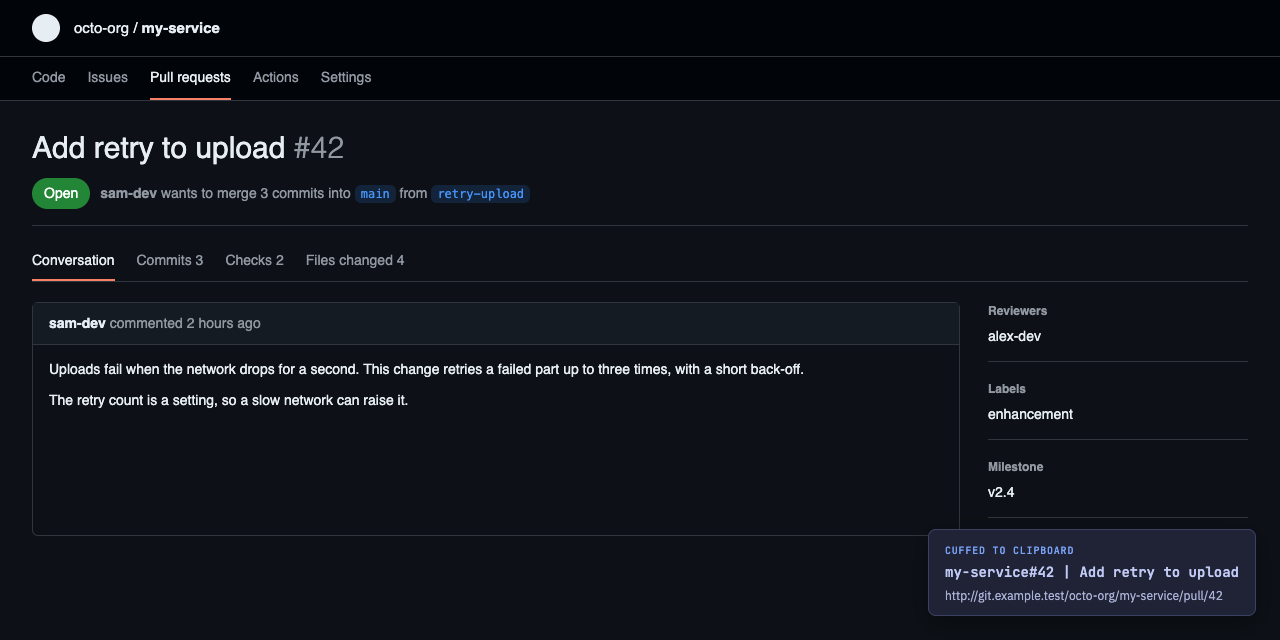
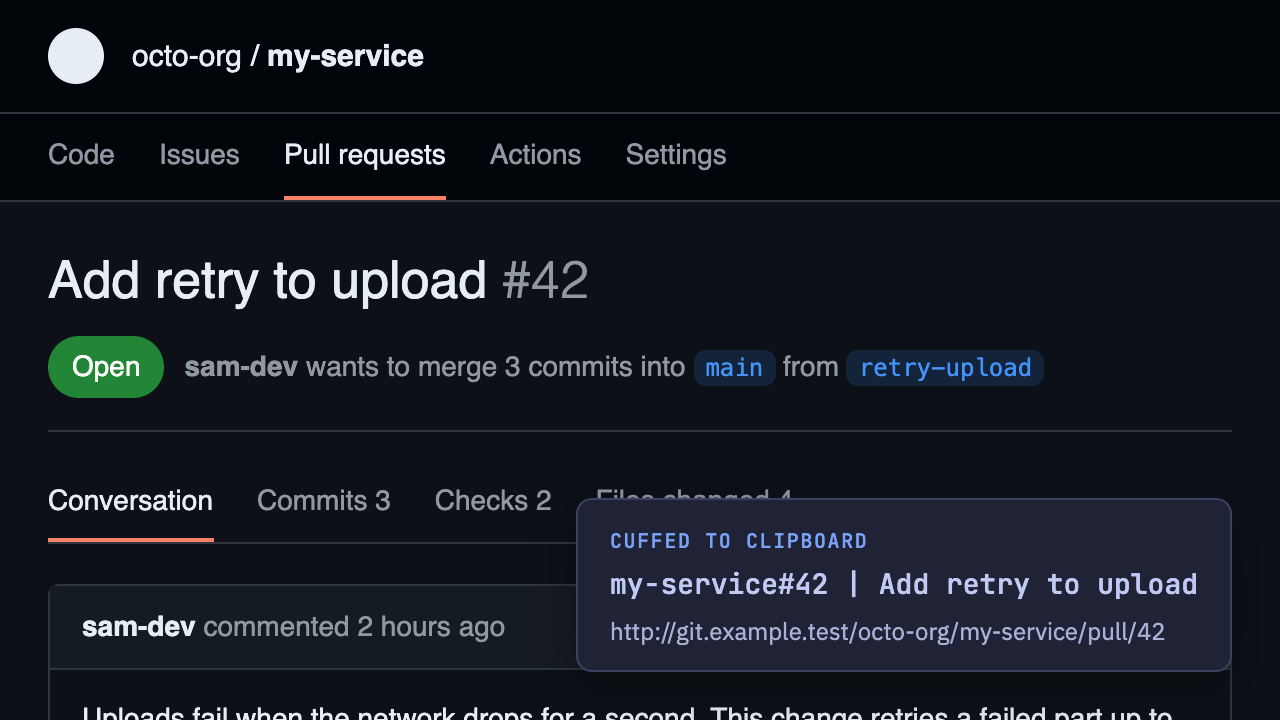
docs(images): re-shoot the card images tight, with an edge on the light one

diff --git a/docs/images/src/jira-page.html b/docs/images/src/jira-page.html
@@ -1,7 +1,8 @@
 <!doctype html>
 <!--
   Made-up issue tracker page for the light card screenshot.
-  Serve it at /browse/ABC-123/ and follow the verify skill (.agents/skills/verify/SKILL.md).
+  Serve it at /browse/ABC-123/. Steps: "Refresh the README and store images" in CONTRIBUTING.md.
+  A grey activity band and a thin frame give the light shot a visible edge on a white page.
 -->
 <html lang="en">
   <head>
@@ -76,6 +77,48 @@
       dd {
         margin: 0 0 12px;
       }
+      .activity {
+        position: fixed;
+        left: 0;
+        right: 0;
+        bottom: 0;
+        height: 104px;
+        padding: 16px 40px;
+        background: #f1f2f4;
+        border-top: 1px solid #dfe1e6;
+        color: #44546f;
+      }
+      .activity .label {
+        color: #172b4d;
+      }
+      .reply {
+        width: 46%;
+        padding: 8px 12px;
+        border: 1px solid #c1c7d0;
+        border-radius: 4px;
+        background: #fff;
+        color: #626f86;
+      }
+      body::after {
+        content: '';
+        position: fixed;
+        inset: 0;
+        border: 1px solid #b3b9c4;
+        pointer-events: none;
+      }
+      @media (max-width: 759px) {
+        header {
+          padding: 0 20px;
+        }
+        main {
+          padding: 18px 20px;
+          grid-template-columns: 1fr 150px;
+          gap: 20px;
+        }
+        .activity {
+          padding: 14px 20px;
+        }
+      }
     </style>
   </head>
   <body>
@@ -103,5 +146,9 @@
         </dl>
       </div>
     </main>
+    <section class="activity">
+      <p class="label">Activity</p>
+      <div class="reply">Add a comment…</div>
+    </section>
   </body>
 </html>

diff --git a/docs/images/src/pr-page.html b/docs/images/src/pr-page.html
@@ -1,7 +1,8 @@
 <!doctype html>
 <!--
   Made-up code host pull request page for the card screenshots.
-  Serve it at /octo-org/my-service/pull/42/ and follow the verify skill (.agents/skills/verify/SKILL.md).
+  Serve it at /octo-org/my-service/pull/42/. Steps: "Refresh the README and store images" in CONTRIBUTING.md.
+  Below 760 px wide, the page drops the sidebar so that a tight shot keeps the card large.
 -->
 <html lang="en">
   <head>
@@ -152,6 +153,25 @@
         margin: 0 0 18px;
         padding-bottom: 14px;
         border-bottom: 1px solid var(--line);
+      }
+      @media (max-width: 759px) {
+        main {
+          padding: 20px 24px;
+        }
+        header,
+        nav {
+          padding-left: 24px;
+          padding-right: 24px;
+        }
+        h1 {
+          font-size: 26px;
+        }
+        .layout {
+          grid-template-columns: 1fr;
+        }
+        .side {
+          display: none;
+        }
       }
     </style>
   </head>
